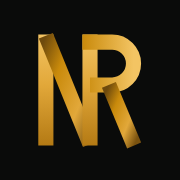
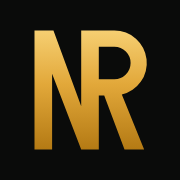
NR em peça única; abertura: enche de 0 a 100%, brilha e abre como porta na haste do meio
Claude-Session: https://claude.ai/code/session_017oJyFuK3FA9F6xfa9LApCQ

Changed region(s): [[0.3611, 0.1667, 0.8333, 0.8333], [0.1667, 0.1667, 0.4167, 0.8333], [0.6944, 0.5833, 0.7222, 0.6389]]

diff --git a/index.html b/index.html
@@ -419,70 +419,90 @@ body.lock{overflow:hidden}
 @media (max-width:380px){.av-icones{grid-template-columns:repeat(4,minmax(0,1fr))}.av-cores{grid-template-columns:repeat(4,minmax(0,1fr))}}
 [hidden]{display:none!important}
 
-/* ---------- abertura estilo Netflix: fita NR com dobras, pausa "tudum", mergulho nos fios de luz e entrada no app ---------- */
-.intro{position:fixed;inset:0;z-index:100;background:#0a0b0a;overflow:hidden;cursor:pointer;display:grid;place-items:center;animation:assenta .45s 2.3s ease both}
-.intro.sai{transition:opacity .3s ease;opacity:0}
+/* ---------- abertura: NR se enche como uma meta (0→100%), brilha e se abre como porta na haste do meio ---------- */
+.intro{position:fixed;inset:0;z-index:100;overflow:hidden;cursor:pointer}
+.intro.sai{transition:opacity .25s ease;opacity:0}
 .sem-intro .intro{display:none}
-.nr-cam{display:grid;justify-items:center;gap:18px;animation:camera 2.4s cubic-bezier(.75,0,.85,.05) both}
-.nr{width:min(58vw,240px);height:auto;overflow:visible;display:block;animation:tudum .6s 1.25s ease-out both}
-.nr .fx{fill:none;stroke-width:24;stroke-linecap:butt;stroke-linejoin:miter;stroke-dasharray:1;stroke-dashoffset:1;animation:traco .3s cubic-bezier(.65,0,.25,1) both}
-.nr .f1{stroke:url(#nr-g1);animation-delay:.2s}.nr .f2{stroke:url(#nr-g2);animation-delay:.38s}.nr .f3{stroke:url(#nr-g1);animation-delay:.56s}
-.nr .f4{stroke:url(#nr-g3);animation-delay:.74s;animation-duration:.36s}.nr .f5{stroke:url(#nr-g2);animation-delay:.92s}
-.nr .sb{fill:none;stroke-width:24;stroke-linecap:butt;opacity:0;animation:aparece .2s both}
-.nr .s2{stroke:url(#nr-sd);animation-delay:.62s}.nr .s5{stroke:url(#nr-sl);animation-delay:1.1s}
-.nr .brilho{opacity:0;animation:brilho .5s 1.28s ease-in-out both}
-.nr-nome{font-family:var(--display);font-weight:700;font-size:clamp(1.1rem,5vw,1.5rem);letter-spacing:.55em;margin-right:-.55em;color:#cfd3c9;text-transform:uppercase;white-space:nowrap;opacity:0;animation:fade-nr .4s 1.2s ease both,some .2s 1.75s ease forwards}
-.fios{position:absolute;inset:0;pointer-events:none}
-.fios i{position:absolute;top:-15%;bottom:-15%;left:50%;width:var(--w);margin-left:calc(var(--w) / -2);background:var(--c);opacity:0;filter:blur(var(--b));
-  animation:fio var(--d) var(--t) cubic-bezier(.25,.1,.2,1) both}
+.porta{position:absolute;inset:0;background:#0a0b0a;display:grid;place-items:center;animation:.55s 1.7s cubic-bezier(.75,0,.25,1) both}
+.porta.e{clip-path:inset(0 50% 0 0);animation-name:abre-e}.porta.d{clip-path:inset(0 0 0 50%);animation-name:abre-d}
+.nr-box{display:grid;justify-items:center;gap:20px;transform:translateY(-4%)}
+.nr{width:min(54vw,220px);height:auto;overflow:visible;display:block;animation:pulsa .5s 1.12s ease-out both}
+.nr .contorno{fill:none;stroke:#e2a83a;stroke-width:1.6;stroke-dasharray:1;stroke-dashoffset:1;animation:traco .55s .1s cubic-bezier(.6,0,.3,1) both}
+.nr .vazio{fill:#161915}
+.nr .enche{animation:enche .85s .45s cubic-bezier(.55,.05,.35,1) both}
+.nr .borda{fill:#fff4d0}
+.nr .luz{opacity:0;animation:luz .55s 1.15s ease-in-out both}
+.nr-regua{position:relative;width:min(64vw,260px);height:12px}
+.nr-regua i{position:absolute;left:0;right:0;top:0;height:3px;border-radius:2px;background:#2a2f29}
+.nr-regua i::after{content:"";position:absolute;inset:0;border-radius:2px;background:#e2a83a;transform:scaleX(0);transform-origin:left;animation:regua .85s .45s cubic-bezier(.55,.05,.35,1) both}
+.nr-regua b{position:absolute;top:3px;width:1.5px;height:5px;background:#3d433a}
+.nr-regua b.g{height:9px}
+.nr-txt{position:relative;height:1.6rem;display:grid;place-items:center}
+.nr-pct{font-family:var(--mono);font-size:.95rem;color:#9aa296;letter-spacing:.06em;animation:some .2s 1.1s ease forwards}
+.nr-nome{position:absolute;font-family:var(--display);font-weight:700;font-size:clamp(1.15rem,5.2vw,1.55rem);letter-spacing:.5em;margin-right:-.5em;color:#eef0ec;text-transform:uppercase;white-space:nowrap;opacity:0;animation:nome-in .45s 1.12s ease both}
+.fenda{position:absolute;top:0;bottom:0;left:50%;width:2px;margin-left:-1px;background:#fff4d0;box-shadow:0 0 18px 6px rgba(240,192,96,.7);opacity:0;transform:scaleY(0);animation:fenda .5s 1.55s ease both;z-index:2}
 @keyframes traco{to{stroke-dashoffset:0}}
-@keyframes aparece{to{opacity:1}}
-@keyframes brilho{0%{opacity:0;transform:translateX(-120px)}40%{opacity:.95}100%{opacity:0;transform:translateX(150px)}}
-@keyframes tudum{0%{filter:drop-shadow(0 0 0 rgba(226,168,58,0));transform:scale(1)}35%{filter:drop-shadow(0 0 22px rgba(240,192,96,.75));transform:scale(1.035)}100%{filter:drop-shadow(0 0 8px rgba(226,168,58,.35));transform:scale(1.02)}}
-@keyframes fade-nr{to{opacity:1}}
+@keyframes enche{from{transform:translateY(176px)}to{transform:none}}
+@keyframes regua{to{transform:scaleX(1)}}
+@keyframes luz{0%{opacity:0;transform:translateX(-90px)}40%{opacity:.9}100%{opacity:0;transform:translateX(130px)}}
+@keyframes pulsa{0%{filter:drop-shadow(0 0 0 rgba(226,168,58,0));transform:scale(1)}40%{filter:drop-shadow(0 0 20px rgba(240,192,96,.7));transform:scale(1.04)}100%{filter:drop-shadow(0 0 6px rgba(226,168,58,.3));transform:scale(1)}}
 @keyframes some{to{opacity:0}}
-@keyframes camera{0%{transform:scale(.94)}73%{transform:scale(1)}100%{transform:scale(18);opacity:0}}
-@keyframes fio{0%{opacity:0;transform:translateX(0) scaleY(.3)}18%{opacity:var(--o)}70%{opacity:var(--o)}100%{opacity:0;transform:translateX(var(--x)) scaleY(1.1)}}
-@keyframes assenta{to{background:var(--bg)}}
+@keyframes nome-in{from{opacity:0;letter-spacing:.9em;margin-right:-.9em}to{opacity:1;letter-spacing:.5em;margin-right:-.5em}}
+@keyframes fenda{0%{opacity:0;transform:scaleY(0)}45%{opacity:1;transform:scaleY(1)}100%{opacity:0;transform:scaleY(1)}}
+@keyframes abre-e{to{transform:translateX(-52%)}}
+@keyframes abre-d{to{transform:translateX(52%)}}
 /* entrada do app depois da abertura */
 .entra #app>*{animation:entra-app .5s cubic-bezier(.2,.8,.2,1) both}
 .entra #app>*:nth-child(2){animation-delay:.06s}.entra #app>*:nth-child(3){animation-delay:.12s}.entra #app>*:nth-child(n+4){animation-delay:.18s}
 .entra .pcard{animation:entra-app .5s cubic-bezier(.2,.8,.2,1) both}.entra .pcard:nth-child(2){animation-delay:.08s}.entra .pcard:nth-child(3){animation-delay:.16s}
-@keyframes entra-app{from{opacity:0;transform:translateY(14px) scale(.985)}to{opacity:1;transform:none}}
-@media (prefers-reduced-motion:reduce){.intro,.nr-cam,.nr,.nr .fx,.nr .sb,.nr .brilho,.nr-nome{animation:none;opacity:1;stroke-dashoffset:0}.fios{display:none}.entra #app>*,.entra .pcard{animation:none}}
+@keyframes entra-app{from{opacity:0;transform:scale(.97)}to{opacity:1;transform:none}}
+@media (prefers-reduced-motion:reduce){.porta,.nr,.nr .contorno,.nr .enche,.nr .luz,.nr-regua i::after,.nr-pct,.nr-nome,.fenda{animation:none}.nr .contorno{stroke-dashoffset:0}.nr-pct{display:none}.nr-nome{opacity:1}.nr-regua i::after{transform:none}.fenda{display:none}.entra #app>*,.entra .pcard{animation:none}}
 </style>
 
 
 </head>
 <body>
 <div class="intro" id="intro" aria-hidden="true">
- <div class="nr-cam">
-  <svg class="nr" viewBox="0 0 220 200">
-   <defs>
-    <linearGradient id="nr-g1" gradientUnits="userSpaceOnUse" x1="0" y1="188" x2="0" y2="12"><stop offset="0" stop-color="#a86f10"/><stop offset=".5" stop-color="#e2a83a"/><stop offset=".8" stop-color="#f6cf72"/><stop offset="1" stop-color="#d9982a"/></linearGradient>
-    <linearGradient id="nr-g2" x1="0" y1="0" x2="1" y2="1"><stop offset="0" stop-color="#7a520f"/><stop offset=".35" stop-color="#d1931c"/><stop offset=".65" stop-color="#eab650"/><stop offset="1" stop-color="#8a5e12"/></linearGradient>
-    <linearGradient id="nr-g3" x1="0" y1="0" x2="1" y2="0"><stop offset="0" stop-color="#c98a0b"/><stop offset=".7" stop-color="#f6cf72"/><stop offset="1" stop-color="#d9982a"/></linearGradient>
-    <linearGradient id="nr-sd" x1="0" y1="0" x2="1" y2="1"><stop offset="0" stop-color="#000" stop-opacity=".75"/><stop offset=".22" stop-color="#000" stop-opacity="0"/><stop offset=".78" stop-color="#000" stop-opacity="0"/><stop offset="1" stop-color="#000" stop-opacity=".75"/></linearGradient>
-    <linearGradient id="nr-sl" x1="0" y1="0" x2="1" y2="1"><stop offset="0" stop-color="#000" stop-opacity=".7"/><stop offset=".35" stop-color="#000" stop-opacity="0"/></linearGradient>
-    <linearGradient id="nr-luz" x1="0" y1="0" x2="1" y2="0"><stop offset="0" stop-color="#fff" stop-opacity="0"/><stop offset=".5" stop-color="#fff" stop-opacity=".85"/><stop offset="1" stop-color="#fff" stop-opacity="0"/></linearGradient>
-    <clipPath id="nr-clip"><path d="M28 188V12h24l46 98V12h46a45 45 0 0 1 14 87.6L188 188h-27l-28-84h-11v84h-24L52 90v98z"/></clipPath>
-   </defs>
-   <path class="fx f2" pathLength="1" d="M40 14L110 186"/><path class="sb s2" d="M40 14L110 186"/>
-   <path class="fx f5" pathLength="1" d="M140 92L180 188"/><path class="sb s5" d="M140 92L180 188"/>
-   <path class="fx f1" pathLength="1" d="M40 188V12"/>
-   <path class="fx f3" pathLength="1" d="M110 188V12"/>
-   <path class="fx f4" pathLength="1" d="M98 24H145a34 34 0 0 1 0 68H110"/>
-   <g clip-path="url(#nr-clip)"><rect class="brilho" x="40" y="0" width="60" height="200" fill="url(#nr-luz)" transform="skewX(-18)"/></g>
-  </svg>
-  <div class="nr-nome">Na Régua</div>
- </div>
- <div class="fios"><i style="--x:67.6vw;--w:4.3vw;--c:#ffd98a;--o:0.59;--b:3px;--d:0.53s;--t:1.90s"></i><i style="--x:54.6vw;--w:4.0vw;--c:#f0c060;--o:0.59;--b:0px;--d:0.49s;--t:1.90s"></i><i style="--x:-52.7vw;--w:2.2vw;--c:#ffd98a;--o:0.73;--b:3px;--d:0.71s;--t:1.86s"></i><i style="--x:-23.3vw;--w:1.2vw;--c:#8a5e12;--o:0.69;--b:2px;--d:0.58s;--t:1.85s"></i><i style="--x:-48.6vw;--w:3.3vw;--c:#ffd98a;--o:0.30;--b:0px;--d:0.63s;--t:1.78s"></i><i style="--x:-58.9vw;--w:1.8vw;--c:#8a5e12;--o:0.63;--b:0px;--d:0.48s;--t:1.89s"></i><i style="--x:25.9vw;--w:1.7vw;--c:#f0c060;--o:0.92;--b:0px;--d:0.54s;--t:1.92s"></i><i style="--x:-45.8vw;--w:4.9vw;--c:#5c3d0c;--o:0.57;--b:3px;--d:0.70s;--t:1.89s"></i><i style="--x:38.5vw;--w:1.8vw;--c:#e2a83a;--o:0.93;--b:0px;--d:0.50s;--t:1.88s"></i><i style="--x:-23.3vw;--w:4.0vw;--c:#c98a0b;--o:0.74;--b:0px;--d:0.63s;--t:1.76s"></i><i style="--x:-43.1vw;--w:2.1vw;--c:#5c3d0c;--o:0.57;--b:0px;--d:0.45s;--t:1.91s"></i><i style="--x:74.9vw;--w:0.4vw;--c:#c98a0b;--o:0.56;--b:3px;--d:0.71s;--t:1.74s"></i><i style="--x:-31.7vw;--w:1.5vw;--c:#d9922a;--o:0.84;--b:2px;--d:0.48s;--t:1.74s"></i><i style="--x:-20.9vw;--w:2.0vw;--c:#ffd98a;--o:0.38;--b:3px;--d:0.64s;--t:1.85s"></i><i style="--x:30.1vw;--w:1.0vw;--c:#8a5e12;--o:0.83;--b:0px;--d:0.74s;--t:1.75s"></i><i style="--x:-57.8vw;--w:2.1vw;--c:#ffd98a;--o:0.69;--b:2px;--d:0.47s;--t:1.74s"></i><i style="--x:33.1vw;--w:3.6vw;--c:#fff1c9;--o:0.57;--b:3px;--d:0.65s;--t:1.83s"></i><i style="--x:-27.0vw;--w:2.6vw;--c:#f0c060;--o:0.48;--b:0px;--d:0.75s;--t:1.74s"></i><i style="--x:44.5vw;--w:0.6vw;--c:#c98a0b;--o:0.48;--b:3px;--d:0.68s;--t:1.75s"></i><i style="--x:27.6vw;--w:2.4vw;--c:#d9922a;--o:0.73;--b:3px;--d:0.68s;--t:1.75s"></i><i style="--x:-70.8vw;--w:2.5vw;--c:#d9922a;--o:0.76;--b:0px;--d:0.46s;--t:1.86s"></i><i style="--x:23.7vw;--w:1.8vw;--c:#c98a0b;--o:0.95;--b:0px;--d:0.63s;--t:1.80s"></i><i style="--x:-69.5vw;--w:3.8vw;--c:#c98a0b;--o:0.82;--b:1px;--d:0.59s;--t:1.87s"></i><i style="--x:-67.9vw;--w:2.3vw;--c:#e2a83a;--o:0.86;--b:3px;--d:0.46s;--t:1.87s"></i><i style="--x:52.0vw;--w:3.2vw;--c:#f0c060;--o:0.36;--b:0px;--d:0.85s;--t:1.91s"></i><i style="--x:41.4vw;--w:3.8vw;--c:#ffd98a;--o:0.59;--b:3px;--d:0.48s;--t:1.89s"></i><i style="--x:-37.1vw;--w:0.7vw;--c:#e2a83a;--o:0.45;--b:0px;--d:0.65s;--t:1.86s"></i><i style="--x:34.1vw;--w:0.4vw;--c:#fff1c9;--o:0.39;--b:3px;--d:0.53s;--t:1.76s"></i><i style="--x:56.3vw;--w:2.4vw;--c:#8a5e12;--o:0.51;--b:1px;--d:0.53s;--t:1.81s"></i><i style="--x:-68.4vw;--w:2.1vw;--c:#d9922a;--o:0.44;--b:0px;--d:0.65s;--t:1.90s"></i><i style="--x:-59.1vw;--w:4.8vw;--c:#fff1c9;--o:0.83;--b:0px;--d:0.63s;--t:1.78s"></i><i style="--x:-65.7vw;--w:2.1vw;--c:#f6e7c4;--o:0.62;--b:1px;--d:0.74s;--t:1.91s"></i><i style="--x:37.6vw;--w:4.2vw;--c:#fff1c9;--o:0.87;--b:0px;--d:0.72s;--t:1.78s"></i><i style="--x:37.0vw;--w:4.0vw;--c:#e2a83a;--o:0.72;--b:2px;--d:0.63s;--t:1.73s"></i><i style="--x:33.1vw;--w:1.0vw;--c:#e2a83a;--o:0.94;--b:0px;--d:0.63s;--t:1.86s"></i><i style="--x:72.7vw;--w:3.5vw;--c:#8a5e12;--o:0.84;--b:1px;--d:0.52s;--t:1.72s"></i><i style="--x:49.4vw;--w:0.5vw;--c:#8a5e12;--o:0.48;--b:1px;--d:0.67s;--t:1.93s"></i><i style="--x:-41.6vw;--w:4.0vw;--c:#8a5e12;--o:0.36;--b:2px;--d:0.50s;--t:1.82s"></i><i style="--x:-40.7vw;--w:3.0vw;--c:#f6e7c4;--o:0.82;--b:1px;--d:0.64s;--t:1.86s"></i><i style="--x:-25.4vw;--w:4.4vw;--c:#f0c060;--o:0.44;--b:2px;--d:0.84s;--t:1.94s"></i><i style="--x:34.4vw;--w:3.7vw;--c:#e2a83a;--o:0.53;--b:0px;--d:0.46s;--t:1.80s"></i><i style="--x:62.3vw;--w:2.6vw;--c:#e2a83a;--o:0.44;--b:0px;--d:0.62s;--t:1.73s"></i><i style="--x:57.8vw;--w:4.6vw;--c:#ffd98a;--o:0.40;--b:3px;--d:0.81s;--t:1.83s"></i><i style="--x:72.0vw;--w:2.6vw;--c:#f0c060;--o:0.79;--b:2px;--d:0.66s;--t:1.78s"></i><i style="--x:-48.8vw;--w:4.3vw;--c:#f6e7c4;--o:0.47;--b:2px;--d:0.83s;--t:1.91s"></i><i style="--x:-36.7vw;--w:1.0vw;--c:#f6e7c4;--o:0.64;--b:3px;--d:0.65s;--t:1.81s"></i><i style="--x:-47.7vw;--w:3.1vw;--c:#e2a83a;--o:0.65;--b:0px;--d:0.66s;--t:1.81s"></i><i style="--x:-47.0vw;--w:3.5vw;--c:#f0c060;--o:0.91;--b:2px;--d:0.62s;--t:1.93s"></i><i style="--x:34.8vw;--w:2.5vw;--c:#c98a0b;--o:0.52;--b:2px;--d:0.66s;--t:1.74s"></i><i style="--x:54.0vw;--w:4.6vw;--c:#c98a0b;--o:0.76;--b:0px;--d:0.46s;--t:1.75s"></i><i style="--x:-57.8vw;--w:1.8vw;--c:#d9922a;--o:0.46;--b:2px;--d:0.49s;--t:1.88s"></i><i style="--x:-66.9vw;--w:3.2vw;--c:#8a5e12;--o:0.76;--b:2px;--d:0.46s;--t:1.86s"></i><i style="--x:-49.6vw;--w:4.4vw;--c:#f6e7c4;--o:0.72;--b:3px;--d:0.54s;--t:1.84s"></i><i style="--x:-32.8vw;--w:3.8vw;--c:#d9922a;--o:0.89;--b:1px;--d:0.69s;--t:1.92s"></i><i style="--x:-32.0vw;--w:5.0vw;--c:#f0c060;--o:0.39;--b:0px;--d:0.50s;--t:1.74s"></i><i style="--x:25.3vw;--w:4.2vw;--c:#5c3d0c;--o:0.65;--b:0px;--d:0.53s;--t:1.86s"></i><i style="--x:-25.3vw;--w:3.0vw;--c:#d9922a;--o:0.89;--b:1px;--d:0.50s;--t:1.83s"></i><i style="--x:47.7vw;--w:3.5vw;--c:#8a5e12;--o:0.82;--b:2px;--d:0.49s;--t:1.73s"></i><i style="--x:28.1vw;--w:1.2vw;--c:#8a5e12;--o:0.41;--b:0px;--d:0.85s;--t:1.92s"></i><i style="--x:-51.9vw;--w:0.9vw;--c:#ffd98a;--o:0.35;--b:0px;--d:0.58s;--t:1.82s"></i><i style="--x:43.7vw;--w:3.1vw;--c:#e2a83a;--o:0.71;--b:0px;--d:0.79s;--t:1.76s"></i><i style="--x:39.8vw;--w:2.0vw;--c:#8a5e12;--o:0.69;--b:0px;--d:0.66s;--t:1.72s"></i><i style="--x:-64.1vw;--w:3.6vw;--c:#5c3d0c;--o:0.67;--b:0px;--d:0.65s;--t:1.94s"></i><i style="--x:35.4vw;--w:0.8vw;--c:#c98a0b;--o:0.83;--b:2px;--d:0.50s;--t:1.79s"></i></div>
+ <div class="porta e"><div class="nr-box">
+   <svg class="nr" viewBox="20 0 180 200">
+    <defs>
+     <clipPath id="nr-c"><path d="M28 188V12H56L97 124V12H146A48 48 0 0 1 157 106.7L190 188H161L131 108H123V188H97L54 76V188Z M123 36H146A24 24 0 0 1 146 84H123Z" clip-rule="evenodd"/></clipPath>
+     <linearGradient id="nr-ouro" gradientUnits="userSpaceOnUse" x1="0" y1="188" x2="0" y2="12"><stop offset="0" stop-color="#b47a14"/><stop offset=".55" stop-color="#e2a83a"/><stop offset="1" stop-color="#f6cf72"/></linearGradient>
+     <linearGradient id="nr-luz" x1="0" y1="0" x2="1" y2="0"><stop offset="0" stop-color="#fff" stop-opacity="0"/><stop offset=".5" stop-color="#fff" stop-opacity=".8"/><stop offset="1" stop-color="#fff" stop-opacity="0"/></linearGradient>
+    </defs>
+    <path class="vazio" d="M28 188V12H56L97 124V12H146A48 48 0 0 1 157 106.7L190 188H161L131 108H123V188H97L54 76V188Z M123 36H146A24 24 0 0 1 146 84H123Z" fill-rule="evenodd"/>
+    <g clip-path="url(#nr-c)"><g class="enche"><rect x="20" y="12" width="180" height="190" fill="url(#nr-ouro)"/><rect class="borda" x="20" y="11" width="180" height="2.5"/></g>
+     <rect class="luz" x="40" y="0" width="56" height="200" fill="url(#nr-luz)" transform="skewX(-16)"/></g>
+    <path class="contorno" pathLength="1" d="M28 188V12H56L97 124V12H146A48 48 0 0 1 157 106.7L190 188H161L131 108H123V188H97L54 76V188Z M123 36H146A24 24 0 0 1 146 84H123Z"/>
+   </svg>
+   <div class="nr-regua"><i></i><b class="g" style="left:calc(0% - .75px)"></b><b class="" style="left:calc(5% - .75px)"></b><b class="" style="left:calc(10% - .75px)"></b><b class="" style="left:calc(15% - .75px)"></b><b class="" style="left:calc(20% - .75px)"></b><b class="g" style="left:calc(25% - .75px)"></b><b class="" style="left:calc(30% - .75px)"></b><b class="" style="left:calc(35% - .75px)"></b><b class="" style="left:calc(40% - .75px)"></b><b class="" style="left:calc(45% - .75px)"></b><b class="g" style="left:calc(50% - .75px)"></b><b class="" style="left:calc(55% - .75px)"></b><b class="" style="left:calc(60% - .75px)"></b><b class="" style="left:calc(65% - .75px)"></b><b class="" style="left:calc(70% - .75px)"></b><b class="g" style="left:calc(75% - .75px)"></b><b class="" style="left:calc(80% - .75px)"></b><b class="" style="left:calc(85% - .75px)"></b><b class="" style="left:calc(90% - .75px)"></b><b class="" style="left:calc(95% - .75px)"></b><b class="g" style="left:calc(100% - .75px)"></b></div>
+   <div class="nr-txt"><span class="nr-pct">0%</span><span class="nr-nome">Na Régua</span></div>
+  </div></div>
+ <div class="porta d"><div class="nr-box">
+   <svg class="nr" viewBox="20 0 180 200">
+    <defs>
+     <clipPath id="nr-c-d"><path d="M28 188V12H56L97 124V12H146A48 48 0 0 1 157 106.7L190 188H161L131 108H123V188H97L54 76V188Z M123 36H146A24 24 0 0 1 146 84H123Z" clip-rule="evenodd"/></clipPath>
+     <linearGradient id="nr-ouro-d" gradientUnits="userSpaceOnUse" x1="0" y1="188" x2="0" y2="12"><stop offset="0" stop-color="#b47a14"/><stop offset=".55" stop-color="#e2a83a"/><stop offset="1" stop-color="#f6cf72"/></linearGradient>
+     <linearGradient id="nr-luz-d" x1="0" y1="0" x2="1" y2="0"><stop offset="0" stop-color="#fff" stop-opacity="0"/><stop offset=".5" stop-color="#fff" stop-opacity=".8"/><stop offset="1" stop-color="#fff" stop-opacity="0"/></linearGradient>
+    </defs>
+    <path class="vazio" d="M28 188V12H56L97 124V12H146A48 48 0 0 1 157 106.7L190 188H161L131 108H123V188H97L54 76V188Z M123 36H146A24 24 0 0 1 146 84H123Z" fill-rule="evenodd"/>
+    <g clip-path="url(#nr-c-d)"><g class="enche"><rect x="20" y="12" width="180" height="190" fill="url(#nr-ouro-d)"/><rect class="borda" x="20" y="11" width="180" height="2.5"/></g>
+     <rect class="luz" x="40" y="0" width="56" height="200" fill="url(#nr-luz-d)" transform="skewX(-16)"/></g>
+    <path class="contorno" pathLength="1" d="M28 188V12H56L97 124V12H146A48 48 0 0 1 157 106.7L190 188H161L131 108H123V188H97L54 76V188Z M123 36H146A24 24 0 0 1 146 84H123Z"/>
+   </svg>
+   <div class="nr-regua"><i></i><b class="g" style="left:calc(0% - .75px)"></b><b class="" style="left:calc(5% - .75px)"></b><b class="" style="left:calc(10% - .75px)"></b><b class="" style="left:calc(15% - .75px)"></b><b class="" style="left:calc(20% - .75px)"></b><b class="g" style="left:calc(25% - .75px)"></b><b class="" style="left:calc(30% - .75px)"></b><b class="" style="left:calc(35% - .75px)"></b><b class="" style="left:calc(40% - .75px)"></b><b class="" style="left:calc(45% - .75px)"></b><b class="g" style="left:calc(50% - .75px)"></b><b class="" style="left:calc(55% - .75px)"></b><b class="" style="left:calc(60% - .75px)"></b><b class="" style="left:calc(65% - .75px)"></b><b class="" style="left:calc(70% - .75px)"></b><b class="g" style="left:calc(75% - .75px)"></b><b class="" style="left:calc(80% - .75px)"></b><b class="" style="left:calc(85% - .75px)"></b><b class="" style="left:calc(90% - .75px)"></b><b class="" style="left:calc(95% - .75px)"></b><b class="g" style="left:calc(100% - .75px)"></b></div>
+   <div class="nr-txt"><span class="nr-pct">0%</span><span class="nr-nome">Na Régua</span></div>
+  </div></div>
+ <div class="fenda"></div>
 </div>
 <script>
 (function(){const el=document.getElementById('intro');if(!el||document.documentElement.classList.contains('sem-intro'))return;
  const reduz=matchMedia('(prefers-reduced-motion: reduce)').matches;let fim=false;const R=document.documentElement;
- function sair(){if(fim)return;fim=true;R.classList.add('entra');el.classList.add('sai');setTimeout(()=>el.remove(),320);setTimeout(()=>R.classList.remove('entra'),1100)}
- el.addEventListener('click',sair);setTimeout(sair,reduz?1000:2700)})();
+ /* contador de 0 a 100% junto com o preenchimento */
+ const pcts=el.querySelectorAll('.nr-pct');const t0=performance.now();
+ (function conta(t){const p=Math.max(0,Math.min(1,(t-t0-450)/850));const e=p<.5?2*p*p:1-Math.pow(-2*p+2,2)/2;pcts.forEach(x=>x.textContent=Math.round(e*100)+'%');if(p<1&&!fim)requestAnimationFrame(conta)})(t0);
+ function sair(){if(fim)return;fim=true;R.classList.add('entra');el.classList.add('sai');setTimeout(()=>el.remove(),260);setTimeout(()=>R.classList.remove('entra'),1000)}
+ el.addEventListener('click',sair);setTimeout(sair,reduz?1000:2250)})();
 </script>
 <main id="app"></main>
 

diff --git a/sw.js b/sw.js
@@ -1,4 +1,4 @@
-const CACHE='na-regua-v23';
+const CACHE='na-regua-v24';
 const ASSETS=['./','./index.html','./manifest.webmanifest','./icon-192.png','./icon-512.png','./icon-180.png','./icon-maskable-512.png'];
 self.addEventListener('install',e=>{e.waitUntil(caches.open(CACHE).then(c=>c.addAll(ASSETS)));self.skipWaiting()});
 self.addEventListener('activate',e=>{e.waitUntil(caches.keys().then(ks=>Promise.all(ks.filter(k=>k!==CACHE).map(k=>caches.delete(k)))));self.clients.claim()});
